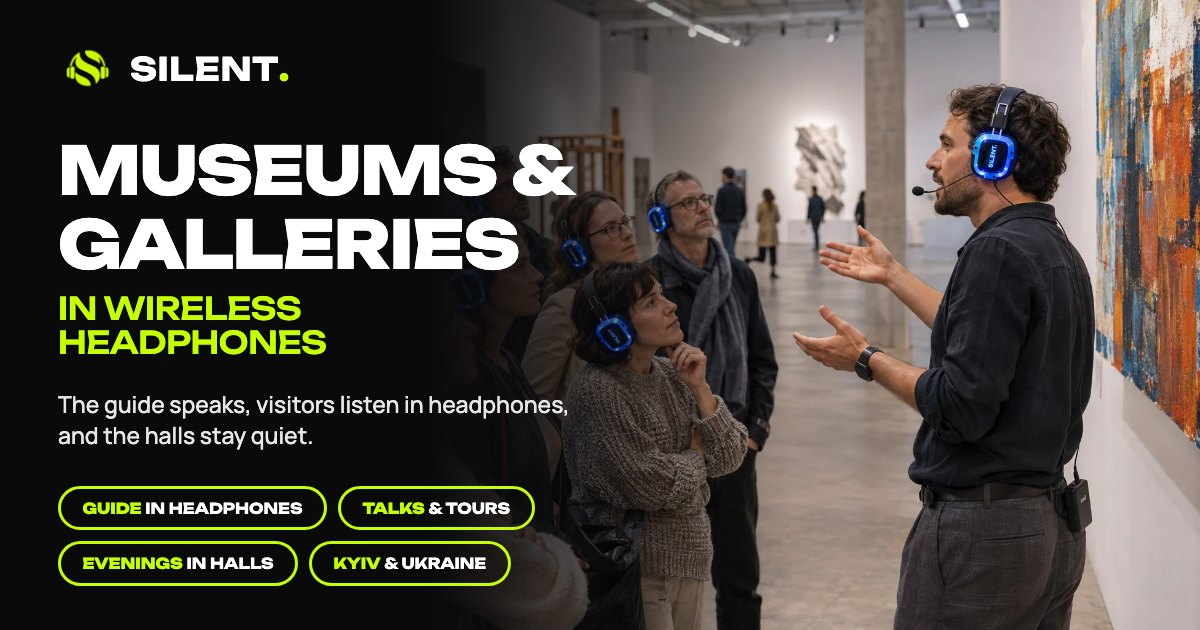
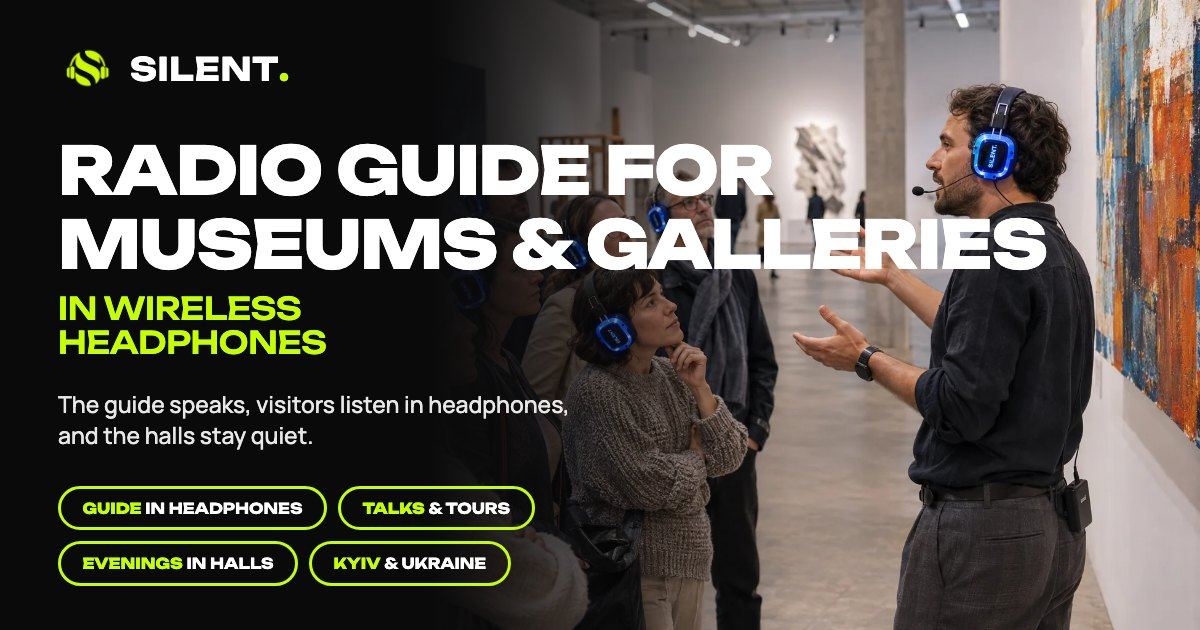
Музеї та галереї: новий H1 «Радіогід для музеїв та галерей у бездротових навушниках»
Заголовок сторінки і EN-версія («Radio guide for museums and galleries in wireless
headphones»), обидві OG-картки перерендерено з новим заголовком.

Changed region(s): [[0.0308, 0.2111, 0.8942, 0.4524]]

diff --git a/experiences/museums/index.html b/experiences/museums/index.html
@@ -567,7 +567,7 @@ if (/^(localhost|127\.0\.0\.1|\[::1\])$/.test(location.hostname) || /\.localhost
   <div class="wrap exp-cover-grid">
     <div class="exp-cover-content">
       <p class="exp-crumb"><a href="/experiences/">Тихі враження</a> <span aria-hidden="true">&middot;</span> <span class="crumb-now">Музеї та галереї</span></p>
-      <h1 class="exp-title exp-title--long exp-title--split"><span class="t-lead">Музеї та галереї</span> <span class="t-sub">у бездротових навушниках</span></h1>
+      <h1 class="exp-title exp-title--long"><span class="t-lead">Радіогід для музеїв та галерей</span> <span class="t-sub">у бездротових навушниках</span></h1>
       <p class="exp-lead">Гід розповідає, а кожен відвідувач чує його в навушниках і не заважає іншим у залі. Увечері ті самі навушники дають музику, лекцію чи перформанс, а між творами лишається тиша. SILENT привозить обладнання й видає навушники на вході.</p>
       <div class="exp-actions">
         <a href="#book" class="btn-primary" data-cta="museums_hero_order">Обговорити захід</a>

diff --git a/en/experiences/museums/index.html b/en/experiences/museums/index.html
@@ -523,7 +523,7 @@ if (/^(localhost|127\.0\.0\.1|\[::1\])$/.test(location.hostname) || /\.localhost
   <div class="wrap exp-cover-grid">
     <div class="exp-cover-content">
       <p class="exp-crumb"><a href="/en/experiences/">Quiet Experiences</a> <span aria-hidden="true">&middot;</span> <span class="crumb-now">Museums and galleries</span></p>
-      <h1 class="exp-title exp-title--long exp-title--split"><span class="t-lead">Museums and galleries</span> <span class="t-sub">in wireless headphones</span></h1>
+      <h1 class="exp-title exp-title--long"><span class="t-lead">Radio guide for museums and galleries</span> <span class="t-sub">in wireless headphones</span></h1>
       <p class="exp-lead">The guide speaks and every visitor hears them in headphones without disturbing others in the hall. In the evening the same headphones bring music, a talk or a performance while the space between the works stays quiet. SILENT brings the equipment and hands out the headphones at the entrance.</p>
       <div class="exp-actions">
         <a href="#book" class="btn-primary" data-cta="museums_hero_order">Discuss your event</a>

diff --git a/tools/gen_museums_page.py b/tools/gen_museums_page.py
@@ -90,7 +90,7 @@ rep('<a href="/en/experiences/conferences/" hreflang="en" lang="en">EN</a>', '<a
 # ---------- HERO ----------
 rep('<span class="crumb-now">Конференції</span>', '<span class="crumb-now">Музеї та галереї</span>')
 rep('<h1 class="exp-title exp-title--long"><span class="t-lead">Бездротові навушники</span> <span class="t-sub">для конференцій та бізнес-заходів</span></h1>',
-    '<h1 class="exp-title exp-title--long exp-title--split"><span class="t-lead">Музеї та галереї</span> <span class="t-sub">у бездротових навушниках</span></h1>')
+    '<h1 class="exp-title exp-title--long"><span class="t-lead">Радіогід для музеїв та галерей</span> <span class="t-sub">у бездротових навушниках</span></h1>')
 rep_re(r'<p class="exp-lead">Доповіді, воркшопи.*?</p>',
     '<p class="exp-lead">Гід розповідає, а кожен відвідувач чує його в навушниках і не заважає іншим у залі. Увечері ті самі навушники дають музику, лекцію чи перформанс, а між творами лишається тиша. SILENT привозить обладнання й видає навушники на вході.</p>')
 rep('data-cta="conferences_hero_order">Обговорити конференцію</a>', 'data-cta="museums_hero_order">Обговорити захід</a>')

diff --git a/tools/en_pages.py b/tools/en_pages.py
@@ -6669,6 +6669,7 @@ _MUS = {
 'Бездротові навушники SILENT для музеїв і галерей': 'Wireless SILENT headphones for museums and galleries',
 'Навушники для екскурсій і подій у музеях та галереях': 'Headphones for tours and events in museums and galleries',
 'Музеї, галереї, гіди, куратори й організатори заходів у мистецьких просторах': 'Museums, galleries, guides, curators and organisers of events in art spaces',
+'>Радіогід для музеїв та галерей<': '>Radio guide for museums and galleries<',
 '>у бездротових навушниках<': '>in wireless headphones<',
 'Гід розповідає, а кожен відвідувач чує його в навушниках і не заважає іншим у залі. Увечері ті самі навушники дають музику, лекцію чи перформанс, а між творами лишається тиша. SILENT привозить обладнання й видає навушники на вході.': 'The guide speaks and every visitor hears them in headphones without disturbing others in the hall. In the evening the same headphones bring music, a talk or a performance while the space between the works stays quiet. SILENT brings the equipment and hands out the headphones at the entrance.',
 'Обговорити захід': 'Discuss your event',
